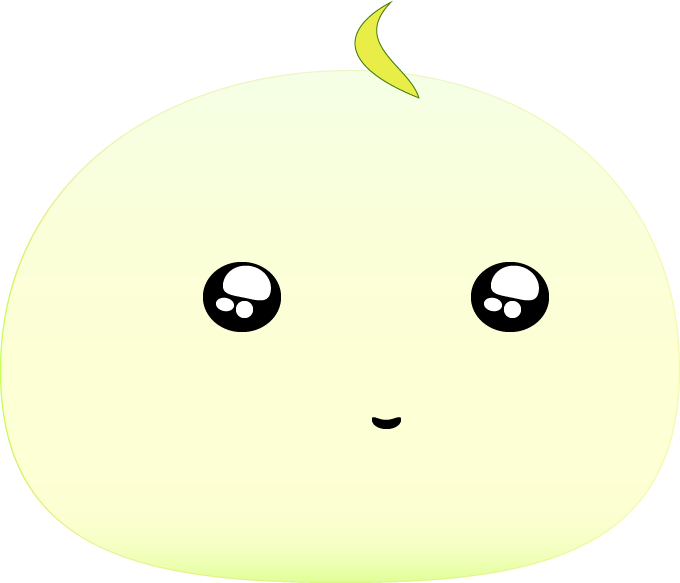
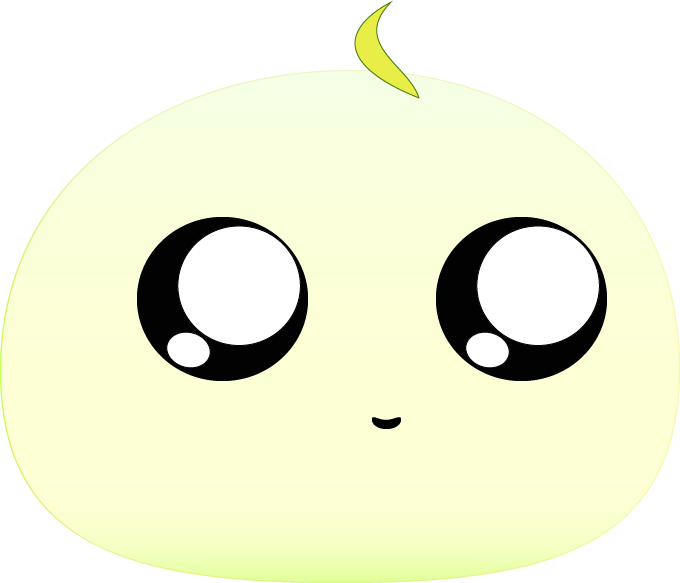
캐릭터 수정 및 애니메이션 적용 완료

Changed region(s): [[0.6176, 0.3705, 0.8956, 0.6792], [0.1853, 0.3705, 0.4632, 0.6792]]

diff --git a/Pro_daelim_wego/Assets/Scripts/JumpGame/PlayerControl.cs b/Pro_daelim_wego/Assets/Scripts/JumpGame/PlayerControl.cs
@@ -57,6 +57,7 @@ public class PlayerControl : MonoBehaviour
     [SerializeField]
     private GameObject burningBG; // 버닝상태일때의 배경
 
+    Animator anim;
     // Start is called before the first frame update
     void Start()
     {
@@ -66,6 +67,7 @@ public class PlayerControl : MonoBehaviour
         rubyScore = 0;
         score = 0;
 
+        anim = GetComponent<Animator>();
         rd2 = GetComponent<Rigidbody2D>();
         bx2 = GetComponent<BoxCollider2D>();
         scroll = FindObjectOfType<Scroll>();
@@ -152,6 +154,7 @@ public class PlayerControl : MonoBehaviour
             if (Input.GetButtonDown("Fire1") && (rd2.velocity.y <= 0) && (gameObject.transform.position.y <= 3f)) 
             {
                 rd2.velocity = new Vector2(0.5f, jumpForce);
+                anim.SetTrigger("Jump");
             }
 
         } else
@@ -189,8 +192,9 @@ public class PlayerControl : MonoBehaviour
             rubyScoreText.text = " : " + rubyScore;
             collision.gameObject.SetActive(false);
             score += 100;
+            anim.SetTrigger("Jump");
 
-            if(!isBurning)
+            if (!isBurning)
             {
                 burningBar_EnergyField.fillAmount += 0.5f;
             }
@@ -230,6 +234,7 @@ public class PlayerControl : MonoBehaviour
 
         burningBar_EnergyField.fillAmount = 1.0f;
 
+        anim.SetTrigger("Jump");
         isBurning = true;
         rd2.isKinematic = true;
         burningBG.SetActive(true);

diff --git a/Pro_daelim_wego/Assets/Scripts/LightningGame/Player.cs b/Pro_daelim_wego/Assets/Scripts/LightningGame/Player.cs
@@ -31,11 +31,14 @@ public class Player : MonoBehaviour
     private Text highScoreText; // highScoreText UI
     private float highScore; // high score를 담을 변수
 
+    Animator anim;
+
     // Start is called before the first frame update
     void Start()
     {
         gm = FindObjectOfType<GM>();
         ruby_SFX = GetComponent<AudioSource>();
+        anim = GetComponent<Animator>();
 
         rubyScore = 0;
         hp.fillAmount = 1;
@@ -78,6 +81,7 @@ public class Player : MonoBehaviour
         {
             hp.fillAmount -= 0.05f;
             hurt_SFX.Play();
+            anim.SetTrigger("Hurt");
 
             if (hp.fillAmount <= 0)
             {
